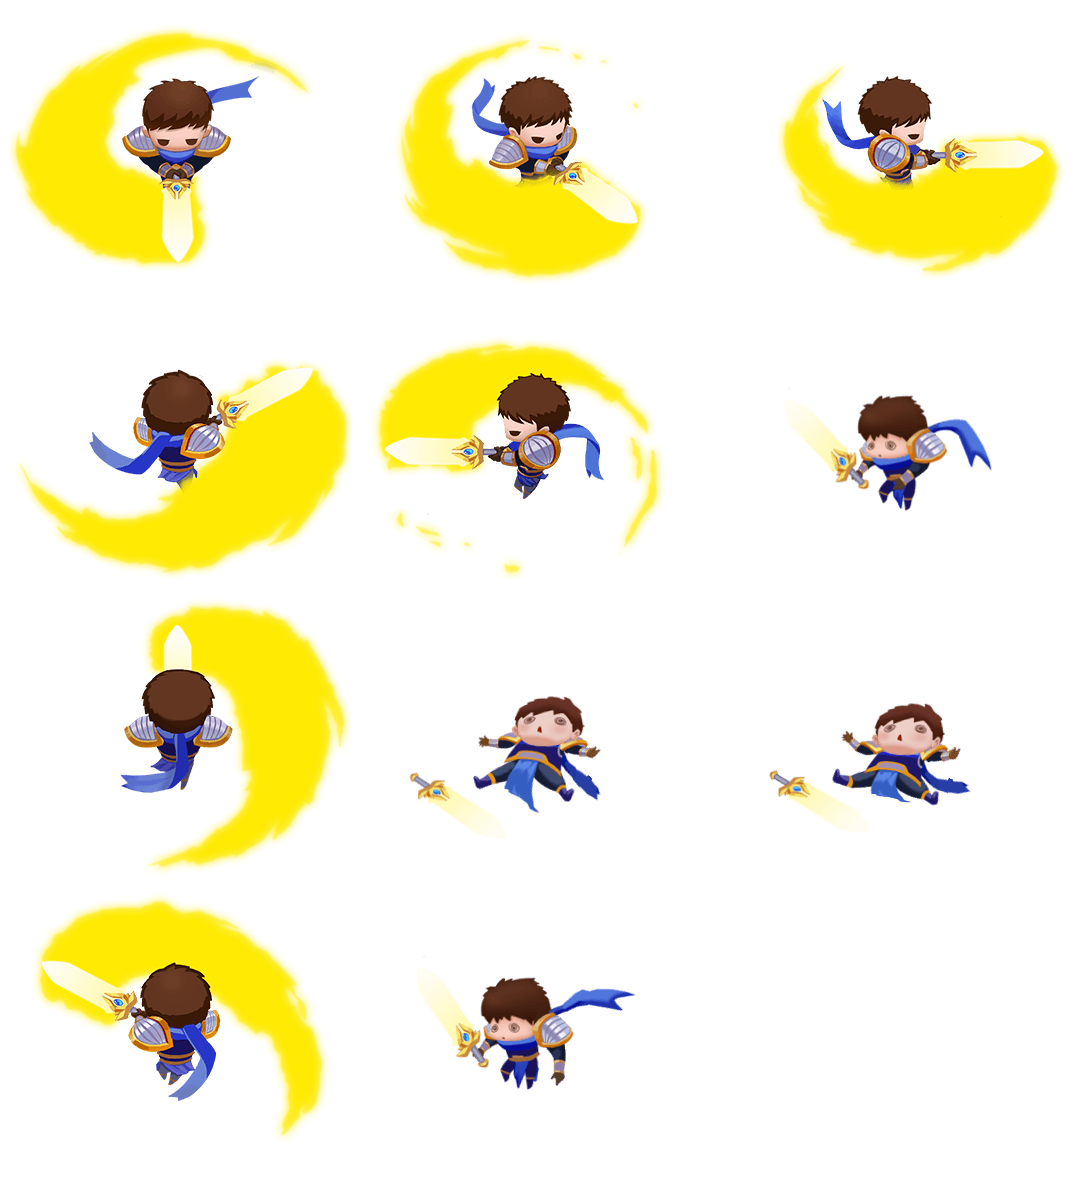
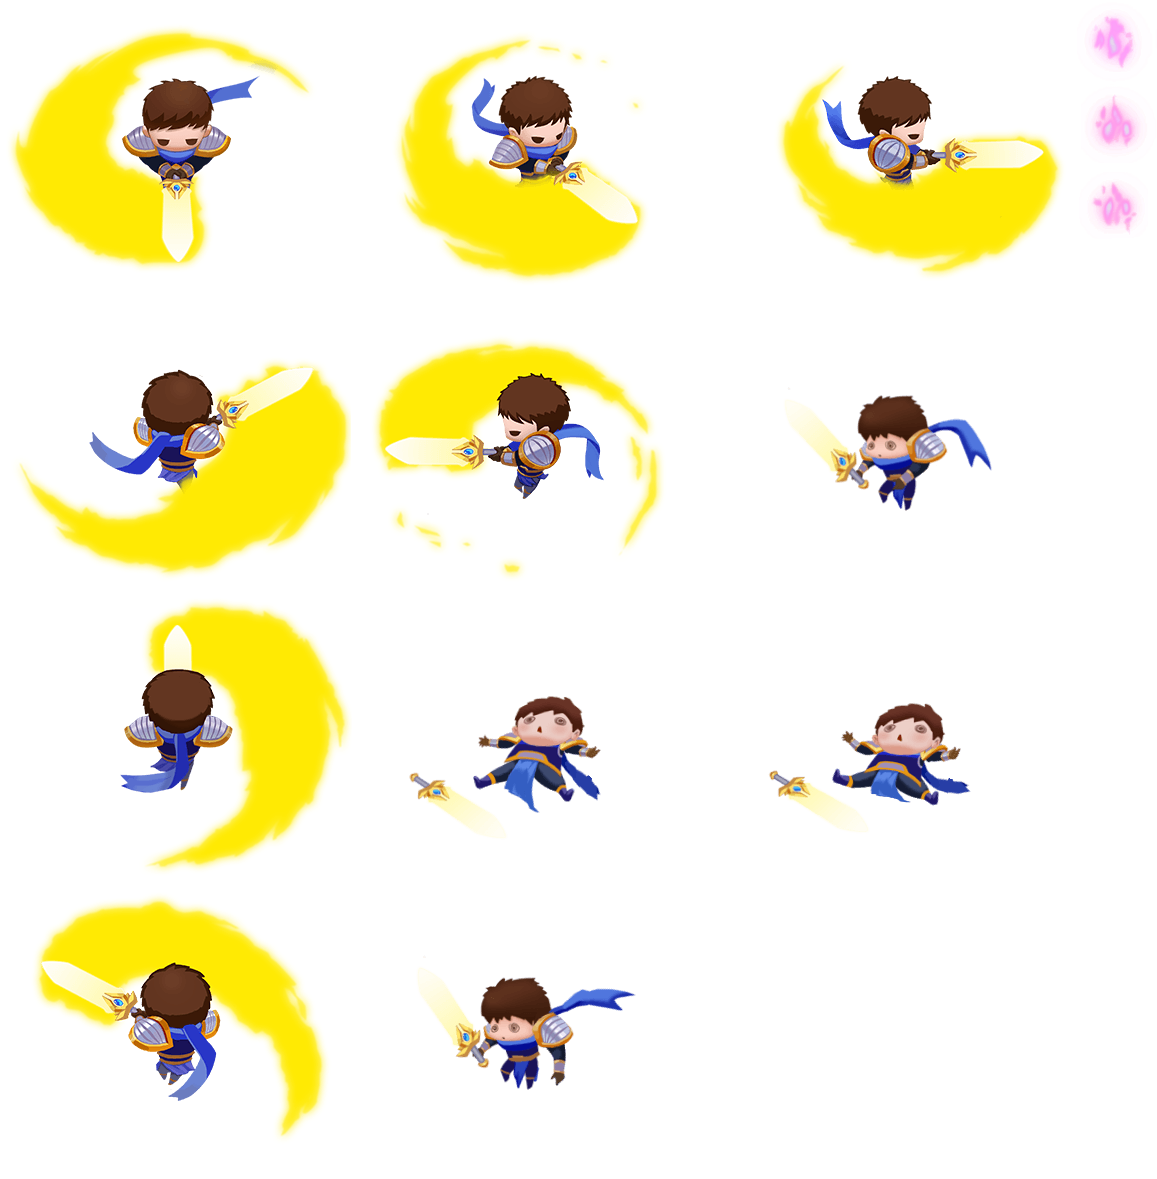
增加道具

diff --git a/WXHeroTD/src/Core/Prop.js b/WXHeroTD/src/Core/Prop.js
@@ -21,6 +21,7 @@ var Prop = (function(_super){
     _proto.propRadios = 30;                                                   //道具半径
     _proto.targetHero = null;                                                 //英雄
     _proto.targetTower = null;                                                //防御塔
+    _proto.propType = -1;                                                      //道具类型
 
 
     _proto.onInit = function(){
@@ -29,11 +30,19 @@ var Prop = (function(_super){
         // this.pivotX = PropWidth / 2;
         // this.pivotY = PropHeight / 2;
 
-        this.propImg = new Laya.Image("game/No.1.png");
-        this.propImg.pivotX = 26;
-        this.propImg.pivotY = 24;
-        // this.propImg.pos(this.pivotX,this.pivotY -30);
-        this.addChild(this.propImg);
+        if(ShowRang){
+            var rangSp = new Laya.Sprite();
+            rangSp.graphics.drawCircle(0,0,this.propRadios,"#ff0000","#ff0000",1);
+            rangSp.x = this.pivotX;
+            rangSp.y = this.pivotY;
+            this.addChild(rangSp);
+        }
+
+        // this.propImg = new Laya.Image("game/No.1.png");
+        // this.propImg.pivotX = 26;
+        // this.propImg.pivotY = 24;
+        // // this.propImg.pos(this.pivotX,this.pivotY -30);
+        // this.addChild(this.propImg);
 
 
         // this.anim = new Laya.Animation();
@@ -45,13 +54,7 @@ var Prop = (function(_super){
         // this.addChild(this.anim);
         // this.anim.visible = false;
 
-        if(ShowRang){
-            var rangSp = new Laya.Sprite();
-            rangSp.graphics.drawCircle(0,0,this.propRadios,"#ff0000","#ff0000",1);
-            rangSp.x = this.pivotX;
-            rangSp.y = this.pivotY;
-            this.addChild(rangSp);
-        }
+        
 
         this.initProp();
     }
@@ -64,11 +67,36 @@ var Prop = (function(_super){
         this.targetTower =SceneManager.getInstance().currentScene.curTower;
     }
 
+    _proto.setPropType = function(_type){
+        this.propType = _type;
+        
+        var t_typeImg = "";
+        switch(this.propType){
+            case 1:
+                t_typeImg = "game/item_hp.png";
+                break;
+            case 2:
+                t_typeImg = "game/item_speed.png";
+                break;
+        }
+
+        this.propImg = new Laya.Image(t_typeImg);
+        this.propImg.pivotX = 15;
+        this.propImg.pivotY = 22;
+        this.addChild(this.propImg);
+
+    }
     _proto.onUpdate = function(){
         var collisionProp = isCollisionWithTwoCricle(new Point(this.x,this.y),this.propRadios,this.targetHero,this.targetHero.HeroRadios);
-        if(collisionProp){
-            // this.addHpPorp();
-            this.addHeroSpeed();
+        if(collisionProp && this != null){
+            switch(this.propType){
+                case 1:
+                    this.addHpPorp();
+                    break;
+                case 2:
+                    this.addHeroSpeed();
+                    break;
+            }
         }
     }
 
@@ -79,7 +107,11 @@ var Prop = (function(_super){
         var t_addHp = 200;
 
         this.targetTower.addHp(t_addHp);
+
+        SceneManager.getInstance().currentScene.removeProp(this);
         this.destroy(true);
+        // this.removeSelf();
+        
     }
 
     /**
@@ -90,8 +122,8 @@ var Prop = (function(_super){
         var t_time = 3000;
 
         this.targetHero.addSpeed(t_addSpeed,t_time);
+        SceneManager.getInstance().currentScene.removeProp(this);
         this.destroy(true);
-
     }
 
     return Prop;

diff --git a/WXHeroTD/src/ui/layaUI.max.all.js b/WXHeroTD/src/ui/layaUI.max.all.js
@@ -100,6 +100,6 @@ var GameStartUI=(function(_super){
 
 		}
 
-		GameStartUI.uiView={"type":"View","props":{"width":720,"height":1280,"centerY":0,"centerX":0},"child":[{"type":"Box","props":{"width":814,"visible":false,"var":"guildBox","mouseEnabled":true,"height":1556,"centerY":0,"centerX":0,"cacheAs":"bitmap"},"child":[{"type":"Sprite","props":{"y":0,"x":0,"name":"s_mask","alpha":0.8},"child":[{"type":"Rect","props":{"y":0,"x":0,"width":814,"lineWidth":1,"height":1556,"fillColor":"#050505"}}]},{"type":"Image","props":{"y":1044,"x":562,"skin":"game/jiantou.png"}},{"type":"Image","props":{"y":1039,"x":231,"skin":"game/jiantou.png","scaleX":-1}},{"type":"Text","props":{"y":1327,"x":300,"text":"点击任意位置开始","fontSize":30,"font":"SimHei","color":"#ffffff"}},{"type":"Text","props":{"y":573,"x":90,"text":"点击或滑动英雄来击退敌人，保护水晶不被破坏","fontSize":30,"font":"SimHei","color":"#ffffff"}}]},{"type":"Box","props":{"width":814,"var":"startBox","height":1556,"centerY":0,"centerX":0},"child":[{"type":"Sprite","props":{"alpha":0.9},"child":[{"type":"Rect","props":{"y":0,"x":0,"width":814,"lineWidth":1,"height":1556,"fillColor":"#050505"}}]},{"type":"Image","props":{"y":404,"x":191,"skin":"game/logo.png"}},{"type":"Button","props":{"y":803,"x":233,"var":"btn_start","stateNum":1,"skin":"game/btn_kaishianniu.png"}},{"type":"Button","props":{"y":969,"x":330,"width":153,"var":"btn_rank","labelSize":35,"labelFont":"SimHei","labelColors":"#ffffff","labelAlign":"center","label":"排行榜>>","height":38}},{"type":"Text","props":{"y":1366,"x":70,"text":"v1.0.1","fontSize":30,"font":"SimHei","color":"#ffffff"}}]}]};
+		GameStartUI.uiView={"type":"View","props":{"width":720,"height":1280,"centerY":0,"centerX":0},"child":[{"type":"Box","props":{"width":814,"visible":false,"var":"guildBox","mouseEnabled":true,"height":1556,"centerY":0,"centerX":0,"cacheAs":"bitmap"},"child":[{"type":"Sprite","props":{"y":0,"x":0,"name":"s_mask","alpha":0.8},"child":[{"type":"Rect","props":{"y":0,"x":0,"width":814,"lineWidth":1,"height":1556,"fillColor":"#050505"}}]},{"type":"Image","props":{"y":1044,"x":562,"skin":"game/jiantou.png"}},{"type":"Image","props":{"y":1039,"x":231,"skin":"game/jiantou.png","scaleX":-1}},{"type":"Text","props":{"y":1327,"x":300,"text":"点击任意位置开始","fontSize":30,"font":"SimHei","color":"#ffffff"}},{"type":"Text","props":{"y":573,"x":90,"text":"点击或滑动英雄来击退敌人，保护水晶不被破坏","fontSize":30,"font":"SimHei","color":"#ffffff"}}]},{"type":"Box","props":{"width":814,"var":"startBox","height":1556,"centerY":0,"centerX":0},"child":[{"type":"Sprite","props":{"alpha":0.9},"child":[{"type":"Rect","props":{"y":0,"x":0,"width":814,"lineWidth":1,"height":1556,"fillColor":"#050505"}}]},{"type":"Image","props":{"y":404,"x":191,"skin":"game/logo.png"}},{"type":"Button","props":{"y":803,"x":233,"var":"btn_start","stateNum":1,"skin":"game/btn_kaishianniu.png"}},{"type":"Button","props":{"y":969,"x":330,"width":153,"var":"btn_rank","labelSize":35,"labelFont":"SimHei","labelColors":"#ffffff","labelAlign":"center","label":"排行榜>>","height":38}},{"type":"Text","props":{"y":1366,"x":70,"text":"v1.1","fontSize":30,"font":"SimHei","color":"#ffffff"}}]}]};
 		return GameStartUI;
 	})(View);

diff --git a/WXHeroTD/src/Core/Hero.js b/WXHeroTD/src/Core/Hero.js
@@ -19,6 +19,7 @@ var Hero = (function(_super){
 
     /**英雄动画 */
     _proto.anim = null;
+    _proto.effectAnim = null;                                           //特效动画
     _proto.targetPos = null;                                            //目标坐标
     _proto.targetVector = null;                                         //目标向量
     _proto.targetPos2 = null;                                           //目标坐标2
@@ -56,6 +57,7 @@ var Hero = (function(_super){
         this.anim.pivotY = 147;
         this.anim.pos(this.pivotX,this.pivotY);
         this.addChild(this.anim);
+
 
         if(ShowRang){
             var rangSp = new Laya.Sprite();
@@ -123,7 +125,7 @@ var Hero = (function(_super){
     _proto.onUpdate = function(){
         this.heroMove();
         this.attackMonster();
-        Gamelog("--------heroMove ="+ this.heroSpeed);
+        // Gamelog("--------heroMove ="+ this.heroSpeed);
     }
 
     /**设置移动路径 */
@@ -277,6 +279,17 @@ var Hero = (function(_super){
     _proto.addSpeed = function(_addSpeed,_time){
         Laya.timer.clear(this,this.resetSpeed);
 
+        if(this.effectAnim != null){
+            this.effectAnim.destroy();
+        }
+        this.effectAnim = new Laya.Animation();
+        this.effectAnim.interval = 100;
+        this.effectAnim.play(0, true, "hero_speed");
+        this.effectAnim.pivotX = 40;
+        this.effectAnim.pivotY = 43;
+        this.effectAnim.pos(this.pivotX,this.pivotY - 40);
+        this.addChild(this.effectAnim);
+
         this.heroSpeed = Hero_Speed + _addSpeed;
         Laya.timer.once(_time,this,this.resetSpeed);
     }
@@ -284,6 +297,7 @@ var Hero = (function(_super){
     _proto.resetSpeed = function(){
         Gamelog("--------resetSpeed ="+ this.heroSpeed);
         this.heroSpeed = Hero_Speed;
+        this.effectAnim.destroy();
     }
 
     return Hero;

diff --git a/WXHeroTD/src/Core/Monster.js b/WXHeroTD/src/Core/Monster.js
@@ -32,6 +32,7 @@ var Monster = (function(_super){
     _proto.hurtSprite = null;                                          //被攻击的特效
     _proto.monsterSpeed = 1;                                           //怪物速度
     _proto.monsterScore = 0;                                           //怪物分数
+    _proto.monsterData = null;                                         //怪物数据
 
     _proto.onInit = function(){
         this.width = MonsterWidth;
@@ -89,6 +90,7 @@ var Monster = (function(_super){
         }
         
         var t_data = t_monsterData[_type];
+        this.monsterData = t_data;
         
         this.anim.clear();
         this.anim.play(0, true, t_data.anim);
@@ -233,10 +235,24 @@ var Monster = (function(_super){
      */
     _proto.createProp = function(){
         var monsterRanomNum = parseInt(Math.random()*10000, 10);
-
-        
-
-        SceneManager.getInstance().currentScene.createProp(this.x,this.y);
+        var t_props = this.monsterData.props.length;
+        if(t_props == 0){
+            return;
+        }
+        var t_weight = 0;
+        var t_type = -1;
+        for (var i = 0; i < t_props; i++) {
+            var propData = this.monsterData.props[i];
+            t_weight += propData.weight;
+            if(monsterRanomNum <= t_weight){
+                t_type = propData.propId;
+                break;
+            }
+        }
+        // Gamelog("-------createProp monsterRanomNum="+monsterRanomNum + ",t_type="+t_type);
+        if(t_type != -1){
+            SceneManager.getInstance().currentScene.createProp(this.x,this.y,t_type);
+        }
     }
     return Monster;
 })(Laya.Sprite);

diff --git a/WXHeroTD/src/Data/MonsterData.js b/WXHeroTD/src/Data/MonsterData.js
@@ -9,8 +9,7 @@ var MonsterData = [
         score:16,
         speed:2,
         radius:30,
-        props:[{propId:1,weight:1000},
-        {propId:2,weight:1000}],
+        props:[{propId:1,weight:1000}],
     },
     {
         type:1,
@@ -21,6 +20,8 @@ var MonsterData = [
         score:19,
         speed:2.5,
         radius:45,
+        props:[{propId:1,weight:2000},
+        {propId:2,weight:2000}],
     },
     {
         type:1,
@@ -31,6 +32,8 @@ var MonsterData = [
         score:40,
         speed:4,
         radius:60,
+        props:[{propId:1,weight:3000},
+        {propId:2,weight:3000}],
     },
     {
         type:2,
@@ -41,6 +44,7 @@ var MonsterData = [
         score:16,
         speed:2,
         radius:30,
+        props:[{propId:1,weight:1000}],
     },
     {
         type:2,
@@ -51,6 +55,8 @@ var MonsterData = [
         score:19,
         speed:2.5,
         radius:45,
+        props:[{propId:1,weight:2000},
+        {propId:2,weight:2000}],
     },
     {
         type:2,
@@ -61,6 +67,8 @@ var MonsterData = [
         score:40,
         speed:4,
         radius:60,
+        props:[{propId:1,weight:3000},
+        {propId:2,weight:3000}],
     },
     
 ];

diff --git a/WXHeroTD/src/Core/GameScene.js b/WXHeroTD/src/Core/GameScene.js
@@ -336,12 +336,25 @@ var GameScene = (function (_super) {
     }
     
     /**创建道具 */
-    _proto.createProp = function(_x,_y){
+    _proto.createProp = function(_x,_y,_type){
 
         var t_prop = new Prop();
         t_prop.pos(_x,_y);
+        t_prop.setPropType(_type);
+
         this.propBoard.addChild(t_prop);
         this.propList.push(t_prop);
+    }
+
+    _proto.removeProp = function(_proto){
+        for (var i = 0; i < this.propList.length; i++) {
+            var t_prop = this.propList[i];
+            if(t_prop == _proto){
+                // Gamelog("------删除怪物");
+                this.propList.splice(i, 1);
+            }
+
+        }
     }
 
     return GameScene;

diff --git a/WXHeroTD/src/Game.js b/WXHeroTD/src/Game.js
@@ -87,6 +87,8 @@ function loadingCallback() {
     Laya.Animation.createFrames(["monster/xiaobing05-animation_0.png","monster/xiaobing05-animation_1.png"], "monster02_down");
     Laya.Animation.createFrames(["monster/xiaobing04-animation_0.png","monster/xiaobing04-animation_1.png"], "monster03_down");
 
+    Laya.Animation.createFrames(["hero/speed_1.png","hero/speed_2.png","hero/speed_3.png"], "hero_speed");
+
     SceneManager.getInstance().currentScene = new GameScene();
     // Laya.stage.addChild(new GameUILogic());
     // UIManager.getInstance().showUI("GameUI");

diff --git a/WXHeroTD/src/Core/Tower.js b/WXHeroTD/src/Core/Tower.js
@@ -68,6 +68,7 @@ var Tower = (function(_super){
         if(this.hp > TowerMaxHp){
             this.hp = TowerMaxHp;
         }
+        BubbleScoreAnim(new Point(this.x,this.y -200),"+"+_hp);
     }
     _proto.resetHp = function(){
         this.hp = 1000;

diff --git a/WXHeroTD/src/GameConfig.js b/WXHeroTD/src/GameConfig.js
@@ -37,4 +37,4 @@ var GameConfig = {
 /**是否显示Log */
 var GameLogVisible = true;
 /**显示范围 */
-var ShowRang = true;
+var ShowRang = false;
